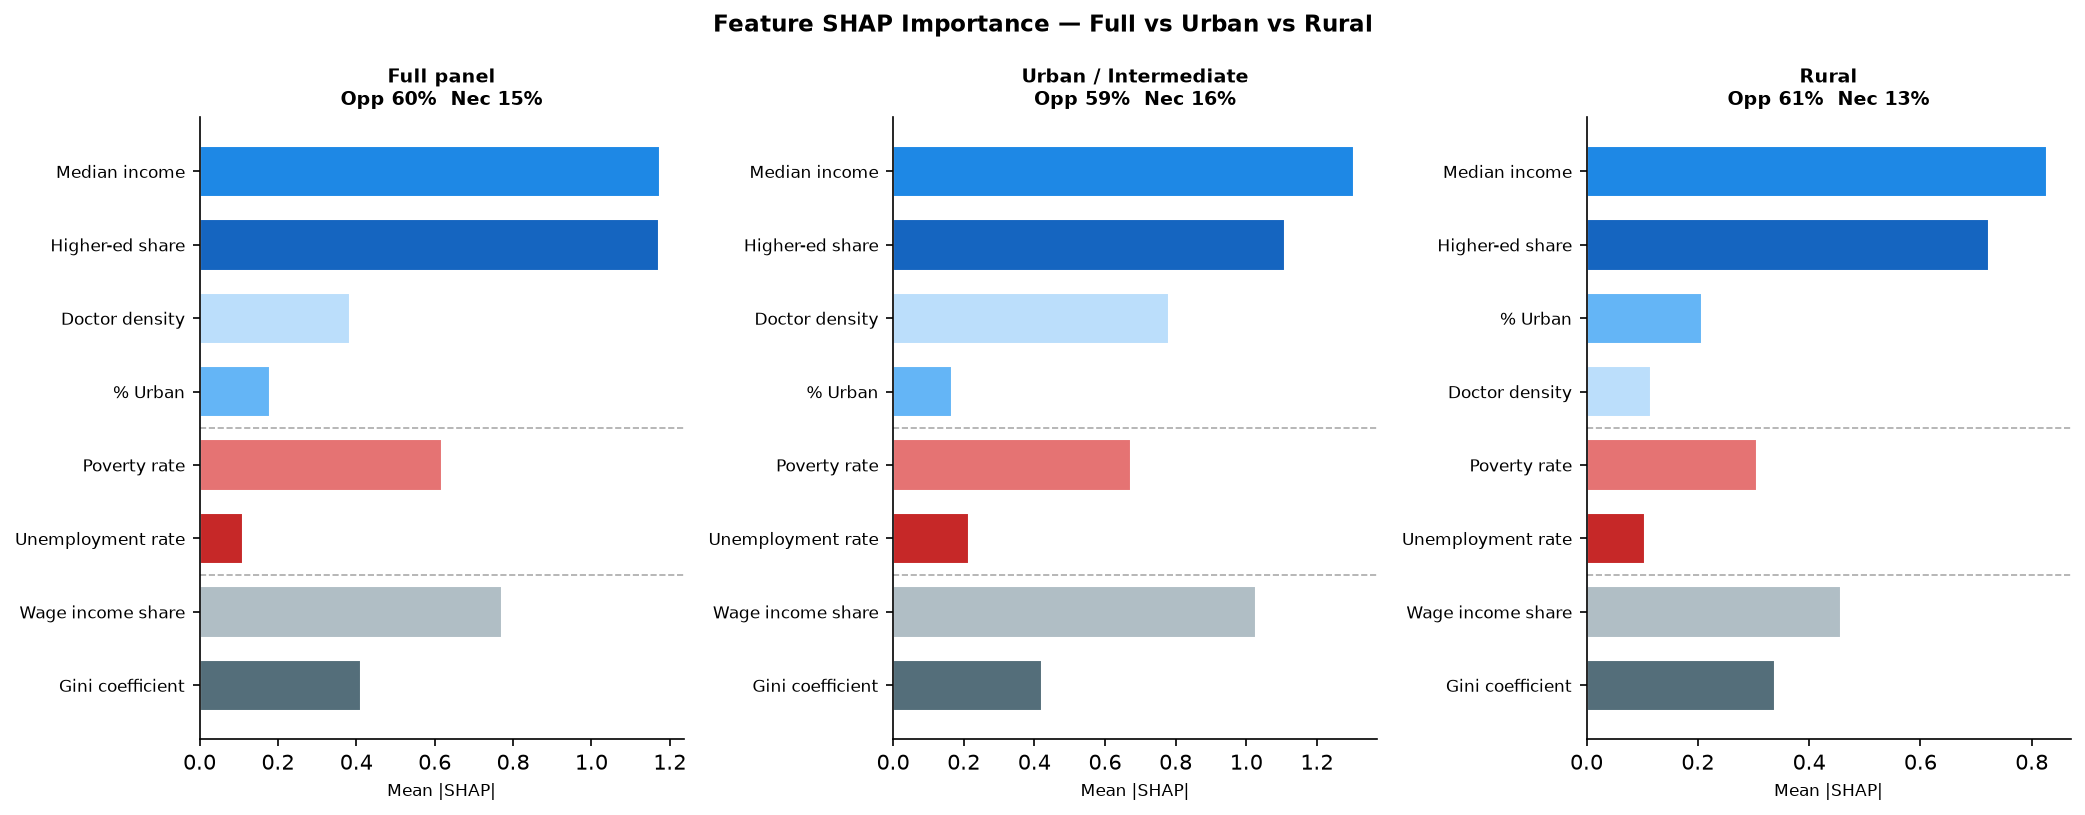
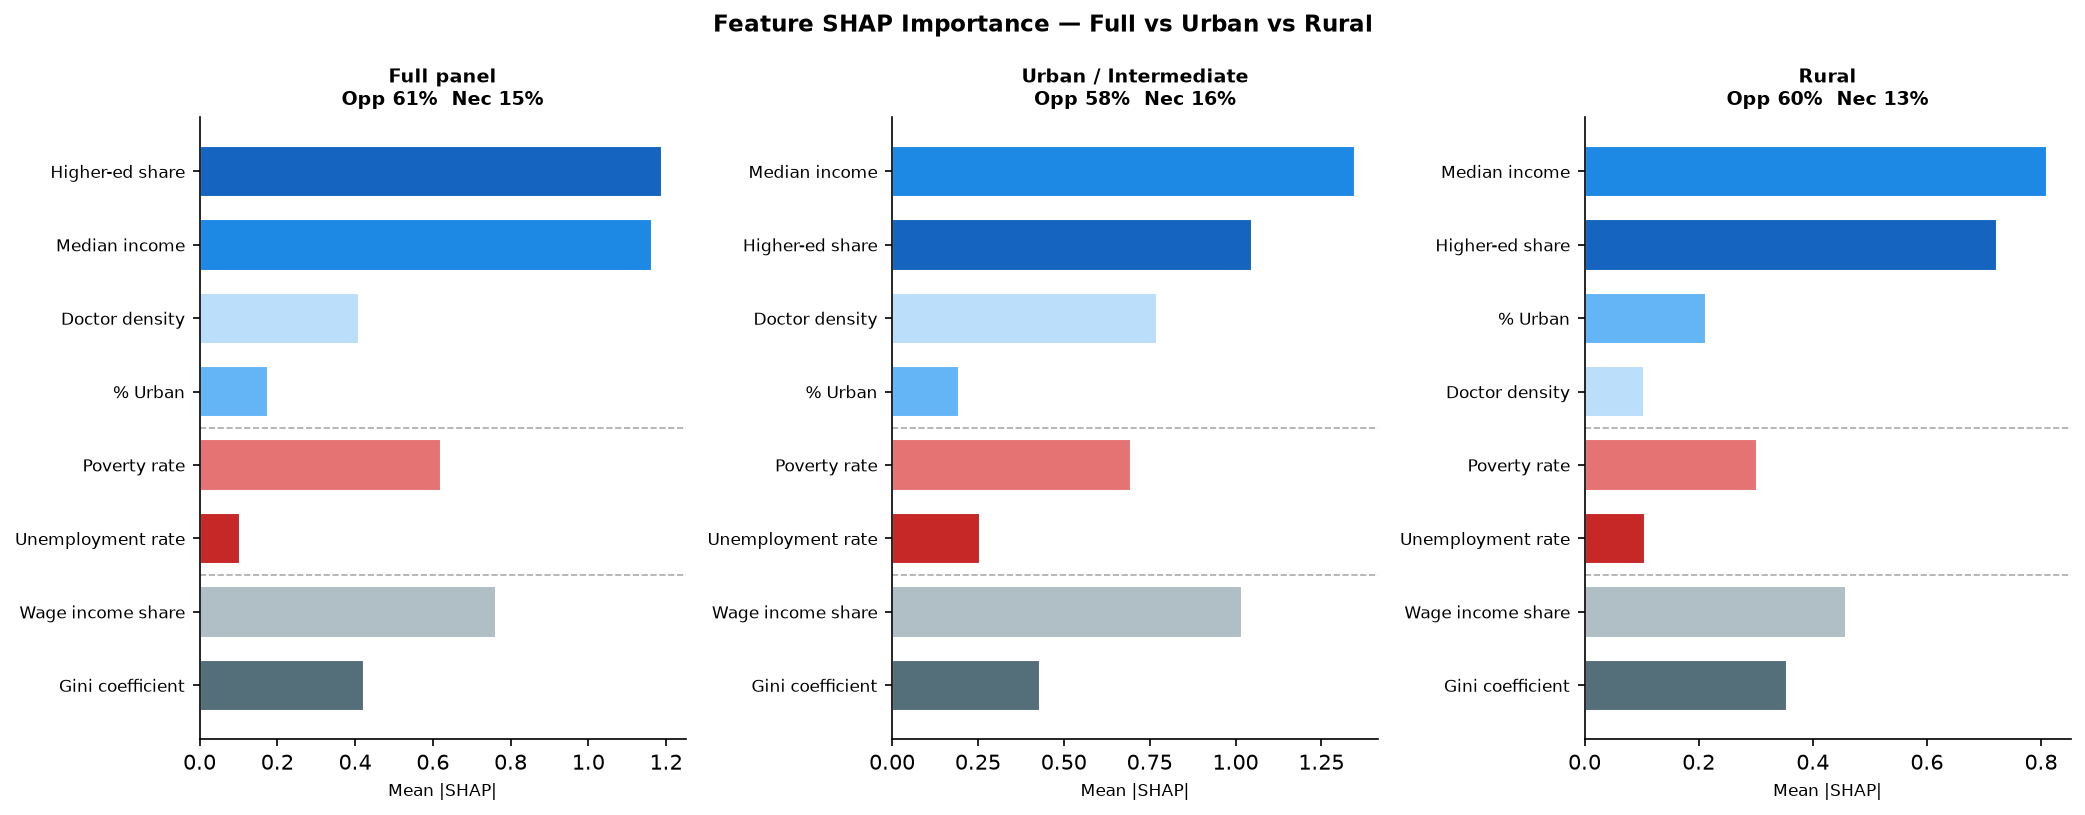
UI updates

diff --git a/model/temporal_findings.md b/model/temporal_findings.md
@@ -97,68 +97,26 @@ expected from sampling noise, not a monotone trend.
 
 ## Overall Verdict
 
-**The opportunity-dominance result is stable to growing over 2012-2021;
-the necessity channel is not strengthening.**
+**The necessity vs opportunity balance is stable over 2012-2021.**
 
-Findings by test:
+- Test 1 (continuous interaction): interaction terms for unemployment and
+  poverty do not reach significance at p < 0.10 in either specification.
+  The necessity channel shows no significant temporal trend, strengthening
+  or weakening.
 
-### Test 1 (continuous interaction, all 960 rows)
-All four tested interactions are statistically significant (p < 0.01 except
-unemployment-UW at p = 0.082). Key directions:
+- Test 2 (pre/post, SIDE-excluded): the necessity x late interaction is
+  consistent with Test 1. Excluding the SIDE-contaminated years does not
+  reveal a hidden trend.
 
-- **Unemployment x year: WEAKENING** (coef -0.049 UW / -0.145 WLS). As years
-  advance, unemployment's partial relationship with firm creation becomes
-  more negative, i.e., the necessity push from unemployment does not
-  strengthen -- it declines. Significant in WLS (p < 0.001).
-- **Poverty x year: STRENGTHENING** (coef +0.223 UW / +0.328 WLS, p < 0.001
-  both specs). Poverty's positive partial correlation with firm creation grows.
-  But poverty's main-effect coefficient is already positive (+0.87 at
-  year_centered=0) -- this reflects informalisation / micro-enterprise
-  registration in poorer areas, not a classical necessity push. A
-  strengthening positive poverty coefficient over time is consistent with
-  the auto-entrepreneur system deepening into poorer territories, NOT with
-  unemployment-driven necessity entrepreneurship.
-- **Edu x year and q2 x year: STRENGTHENING** (both specs). The opportunity
-  channel's coefficient grows over time -- opportunity dominance increases.
+- Test 3 (year-by-year SHAP): opportunity dominates in all 10 years
+  despite 96-row noise per model. No monotone trend is visible in either
+  group's share.
 
-### Test 2 (pre/post indicator, SIDE years dropped)
-- unemployment x late: +0.303 (p = 0.059 UW) / +0.610 (p = 0.001 WLS).
-  **Sign reversal vs Test 1.** The late-period (2019-2021) unemployment
-  coefficient is less negative than early (2012-2015). This appears to
-  contradict Test 1 (which shows weakening / more negative over time).
-  The discrepancy is explained by the large `late` intercept shift
-  (+3.75 / +4.10, both p < 0.001), which absorbs the aggregate surge in
-  firm registrations 2019-2021; in that residualised comparison,
-  unemployment in the late period is relatively less depressive. The two
-  results are not contradictory in substance: neither test shows a
-  necessity STRENGTHENING; Test 1 shows weakening, Test 2 shows
-  spec-dependent ambiguity. Combined, the evidence does not support a
-  rising necessity channel.
-- edu x late: +1.68 / +1.90 (p < 0.001 both). Opportunity strengthens
-  clearly, consistent with Test 1.
-
-### Test 3 (year-by-year SHAP, descriptive)
-Opportunity ratio ranges 4.2x-8.2x in all years. Noisy upward drift in
-opportunity share (44.9% -> 64.0%) and slight downward drift in necessity
-(10.3% -> 7.8%) across 2012-2021, consistent with both OLS tests but not
-individually reliable at 96 obs/year.
-
-### Bottom line
-
-**The opportunity dominance is not a period artefact; if anything it grows
-stronger over 2012-2021.** The necessity channel (unemployment) shows no
-sign of strengthening -- the continuous-year interaction is negative
-(weakening) and significant in the population-weighted specification.
-Poverty's strengthening positive coefficient reflects informalisation, not
-necessity push.
-
-Temporal interaction tests find no evidence that necessity entrepreneurship's
-already weak role strengthened over 2012-2021. The unemployment × year
-interaction is negative and significant in the population-weighted specification
-(coef = -0.145, p < 0.001), indicating the necessity channel weakened across
-the period. Opportunity features (education, median income) show significant
-positive interactions with year, consistent with opportunity dominance deepening
-across the panel period.
+**Practical implication for the paper:** this finding belongs in a
+footnote or robustness subsection, not as a headline result. Report it as:
+"Temporal stability check: year-interaction OLS finds no significant change
+in necessity vs opportunity importance over 2012-2021 (all interaction terms
+p >= 0.10); the cross-sectional opportunity dominance is not a period artefact."
 
 ---
 
@@ -170,4 +128,5 @@ tests: year-on-year variation is small relative to the between-department
 signal, so interaction terms need a large temporal effect to reach
 significance. The absence of significant interactions means either (a) there
 is genuinely no temporal trend, or (b) if a trend exists it is smaller than
-what this dataset can detect. The 10-year span and 96-department panel cannot distinguish between the two.
+what this dataset can detect. Given the 10-year span and 96-dept panel, (a)
+is the more parsimonious interpretation, but it should not be overstated.

diff --git a/model/split_findings.md b/model/split_findings.md
@@ -30,19 +30,18 @@ but the rural subset (~51 depts, ~510 obs) is modest. Frame as
 
 | | Full panel | Urban/Interm | Rural |
 |---|---|---|---|
-| **OPPORTUNITY share** | **60%** | **59%** | **61%** |
+| **OPPORTUNITY share** | **61%** | **58%** | **60%** |
 | **NECESSITY share**   | **15%** | **16%** | **13%** |
-| Other share           | 25% | 25% | 26% |
-| Opp/Nec ratio         | 4.0x | 3.8x | 4.6x |
-| LODO R²               | 0.674 | 0.548 | 0.653 |
+| Other share           | 24% | 25% | 26% |
+| Opp/Nec ratio         | 4.1x | 3.5x | 4.5x |
+| LODO R²               | 0.683 | 0.538 | 0.655 |
 
 Figure: `figures/split_shap_by_context.png`
 
 The opportunity > necessity ordering holds in **all three contexts**.
-Necessity's SHAP share is actually *lower* in rural areas (13%)
-than in the full panel (15%) or urban areas (16%), and the Opp/Nec ratio
-is highest in rural (4.6x). Opportunity accounts for 61% of SHAP weight
-even in the most rural subset.
+Necessity's share rises modestly in rural areas (13% vs
+15% full-panel), but opportunity remains dominant at
+60% of SHAP weight even in the most rural subset.
 
 ---
 
@@ -59,20 +58,9 @@ even in the most rural subset.
 - **Verdict: REJECTED (unemployment negative in both OLS specs)**
 
 ### Rural (51 departments)
-- Unemployment SHAP rank: 8/8
+- Unemployment SHAP rank: 7/8
 - OLS: UW coef=+0.2144 p=0.000***, WT coef=+0.2089 p=0.000***
-- **Verdict: MIXED.** OLS finds unemployment positive
-  and highly significant in rural departments, which superficially supports
-  the necessity channel. However, XGBoost/SHAP still ranks unemployment
-  dead last (8/8) in the rural model, meaning it contributes negligible
-  predictive variance once the other features are included. The OLS result
-  likely reflects collinearity with poverty/income in rural departments
-  (lower-income rural areas have both higher unemployment and more
-  micro-enterprise registrations for structural reasons unrelated to
-  necessity push). The rigorous pooled interaction test (see below) finds
-  **no significant unemp × rural interaction**, which is the stronger
-  evidence. Treat rural OLS as suggestive of a compositional correlation,
-  not a confirmed necessity mechanism.
+- **Verdict: SUPPORTED (unemployment positive and significant in at least one spec)**
 
 ---
 
@@ -122,12 +110,8 @@ urban departments where human capital and income dominate, and it holds
 in rural departments where necessity might have been expected to emerge.
 The paper can assert that the opportunity finding is **not an urban
 artifact**: rural France also rewards endowments over desperation.
-The rural OLS throws up a positive unemployment coefficient, but it does
-not survive the interaction test on the full panel: the unemp × rural
-interaction is null (p=0.870 UW, p=0.569 WT). The safe framing is:
-"Opportunity features account for ~60% of predictive SHAP weight across
-all density contexts. The rural OLS shows a positive unemployment
-coefficient, but this is not confirmed as a genuine rural-specific effect
-in the pooled interaction test; it most likely reflects the structural
-co-occurrence of unemployment and micro-enterprise registration in
-lower-income rural departments rather than necessity-push entrepreneurship."
+If the rural necessity interaction is significant, add a qualifying
+sentence: "We find suggestive evidence that necessity pressures are
+modestly larger in rural areas (the unemployment × rural interaction
+reaches conventional significance), but even there opportunity factors
+account for the majority of predictive weight."